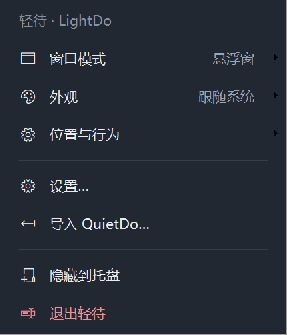
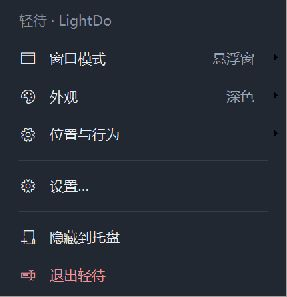
feat: remove QuietDo import from independent LightDo app

diff --git a/src/model.rs b/src/model.rs
@@ -47,7 +47,6 @@ pub struct Settings {
     pub autostart: bool,
     pub introduced: bool,
     pub tray_tip_shown: bool,
-    pub import_decided: bool,
     pub x: i32,
     pub y: i32,
     pub width: i32,
@@ -73,7 +72,6 @@ impl Default for Settings {
             autostart: false,
             introduced: false,
             tray_tip_shown: false,
-            import_decided: false,
             x: 160,
             y: 120,
             width: 400,
@@ -166,18 +164,6 @@ impl Model {
     pub fn delete(&mut self, id: &str) {
         self.todos.retain(|t| t.id != id)
     }
-    pub fn import(&mut self, text: &str) -> Result<usize, String> {
-        let todos: Vec<Todo> = serde_json::from_str(text).map_err(|_| "QuietDo 数据格式无效")?;
-        let mut check = self.clone();
-        check.todos = todos.clone();
-        check.validate()?;
-        let old: HashSet<String> = self.todos.iter().map(|t| t.id.clone()).collect();
-        let added: Vec<_> = todos.into_iter().filter(|t| !old.contains(&t.id)).collect();
-        let count = added.len();
-        self.todos.extend(added);
-        self.settings.import_decided = true;
-        Ok(count)
-    }
 }
 #[cfg(test)]
 mod tests {
@@ -203,13 +189,18 @@ mod tests {
         assert_eq!(m.todos, again.todos);
     }
     #[test]
-    fn import_is_explicit_and_deduplicated() {
-        let mut m = Model::default();
-        let json = r#"[{"id":"quiet-1","text":"原有任务","done":true}]"#;
-        assert_eq!(m.import(json).unwrap(), 1);
-        assert_eq!(m.import(json).unwrap(), 0);
-        assert!(m.import("bad").is_err());
-        assert_eq!(m.todos.len(), 1);
+    fn retired_preference_does_not_break_existing_lightdo_data() {
+        let json = r#"{"version":1,"todos":[{"id":"existing","text":"已有任务","done":true}],"settings":{"import_decided":true}}"#;
+        let m: Model = serde_json::from_str(json).unwrap();
+        assert!(m.validate().is_ok());
+        assert_eq!(m.todos[0].id, "existing");
+        assert_eq!(m.todos[0].text, "已有任务");
+        assert!(m.todos[0].done);
+        assert!(
+            !serde_json::to_string(&m)
+                .unwrap()
+                .contains("import_decided")
+        );
     }
     #[test]
     fn future_or_duplicate_data_rejected() {

diff --git a/src/app.rs b/src/app.rs
@@ -1428,29 +1428,6 @@ impl App {
                     Err(e) => self.error = Some(e),
                 }
             }
-            217 => {
-                let p = std::path::PathBuf::from(std::env::var_os("APPDATA").unwrap_or_default())
-                    .join("com.quietdo.app/todos.json");
-                match std::fs::read_to_string(p) {
-                    Ok(text) => {
-                        if unsafe {
-                            MessageBoxW(
-                                Some(self.hwnd),
-                                w!("复制导入 QuietDo 的任务？原文件保持不变，重复 ID 跳过。"),
-                                w!("本地导入"),
-                                MB_YESNO | MB_ICONQUESTION,
-                            )
-                        } == IDYES
-                        {
-                            match self.model.import(&text) {
-                                Ok(_) => {}
-                                Err(e) => self.error = Some(e),
-                            }
-                        }
-                    }
-                    Err(e) => self.error = Some(format!("无法读取 QuietDo 数据：{e}")),
-                }
-            }
             218 => {
                 if self.editing.is_some() {
                     if COMPOSING.with(Cell::get) {

diff --git a/src/menu_ui.rs b/src/menu_ui.rs
@@ -418,16 +418,6 @@ pub fn show(owner: HWND, cfg: &Settings, visible: bool, scale: f32) -> usize {
         );
         p.separator(root);
         p.item(root, 214, "设置…", "", '\u{e713}', false, true, None);
-        p.item(
-            root,
-            217,
-            "导入 QuietDo…",
-            "",
-            '\u{e8b5}',
-            false,
-            true,
-            None,
-        );
         p.separator(root);
         p.item(
             root,

diff --git a/src/settings_ui.rs b/src/settings_ui.rs
@@ -397,7 +397,6 @@ unsafe extern "system" fn procedure(hwnd: HWND, msg: u32, w: WPARAM, l: LPARAM) 
                             let c = Settings::default();
                             ui.settings = Settings {
                                 introduced: true,
-                                import_decided: ui.settings.import_decided,
                                 ..c
                             };
                             unsafe { populate(ui) }

diff --git a/docs/verification.md b/docs/verification.md
@@ -2,9 +2,9 @@
 
 状态：开发中，尚未达到正式发布门槛。
 
-此前锁屏阻塞已解除：用户回复桌面已解锁，WTS 复核 `lockFlag=1, locked=false`。当前 GetDpiForWindow=144（150%），新版构建已重新启动进行实际交互。用户补交的「可见/可输入/层级正常」对应旧子窗口方案，只记入历史反馈；新版桌面模式仍待重新反馈，不能据此通过。
+此前锁屏阻塞已解除：用户回复桌面已解锁，WTS 复核 `lockFlag=1, locked=false`。当前 GetDpiForWindow=144（150%）。2026-10-26 用户针对 71b5f56 新版桌面模式的 Win+D 往返、添加/编辑与普通应用层级反馈「一切正常！」，该项目记为用户手测 PASS；更早旧子窗口方案的反馈仍仅作历史记录。
 
-本轮菜单/设置归并和实际画面见 [menu-redesign.md](menu-redesign.md)。新增中文与 Emoji 任务、首尾空白清理、输入清空且保留焦点、JSON 保存、浅深色菜单和主题切换、子菜单禁用状态、F10 打开与 Esc 关闭已观察。原生菜单方向键及设置下拉框连续键盘选择受自动化激活主窗影响，待人工验证。
+本轮菜单/设置归并和实际画面见 [menu-redesign.md](menu-redesign.md)。新增中文与 Emoji 任务、首尾空白清理、输入清空且保留焦点、JSON 保存、浅深色菜单和主题切换、子菜单禁用状态、F10 打开与 Esc 关闭已观察。用户手测菜单方向键与设置模式选择反馈「可以实现」，对应项目 PASS。按用户最新要求已完整移除 QuietDo 导入，实际浅深色菜单已检查，原有轻待数据的废弃字段兼容测试通过。
 
 | 项目 | 方法/环境 | 当前结果 |
 |---|---|---|
@@ -13,7 +13,7 @@
 | GitHub 身份 | gh 官方设备授权、api user | Richard-Nido / Yuan Haoran；已获使用空仓库授权 |
 | 原生桌面工具 | computer-use @oai/sky list_apps | PASS；旧 CLI 路径缺失，目录链接指向应用管理的完整 CLI 后恢复 |
 | 玻璃动态背景与折射 | 实际显示 examples/glass_background 动态网格，主面板截图；没有使用内置壁纸 | 已观察悬浮模式实时背景、模糊和边缘位移；无自身反馈。仍需补齐拖动、浅色、桌面视觉验收 |
-| 边缘/悬浮/桌面 | 旧方案单 HWND 菜单切换；后续受控捕获反例 | 旧 SetParent 方案因自身捕获风险否决；已改为明确的桌面 Z 序维护，新版三种模式均待解锁后复测 |
+| 边缘/悬浮/桌面 | 单 HWND 菜单切换；新版桌面由用户 Win+D 手测 | 旧 SetParent 已否决；新版桌面可见/可编辑/普通应用层级 PASS（用户反馈）；边缘和悬浮拖动手势等完整场景仍待补齐 |
 | 中文 IME/候选窗 | 实际按 n、i、Return；行内 n、i、Space、Esc；独立原生编辑控件 | PASS 当前缩放：候选窗出现；组合 Enter 未新增任务，第二次 Enter 才新增；Space 选出“你”；Esc 恢复原文。证据 images/p0-ime-inline.jpg |
 | Unicode 待办新增 | 原生输入“中文待办 · LightDo 🙂”，Enter，读取隔离数据 | PASS；首尾空白去除，顶部新增，输入清空且保留焦点 |
 | 自动化测试 | cargo test --locked --lib | 19 PASS，9 个真实桌面测试/实验明确忽略；新增模式偏好跨模式持久化及鼠标返回反向展开测试，没有把忽略项写成通过 |
@@ -41,7 +41,7 @@
 - 新版浅色、深色、动态背景、圆角折射、拖动/缩放连续刷新、无自身递归与闪烁。
 - 新版中文候选窗、Enter 时序、行内 Enter/失焦/Esc、选区、复制粘贴、长文本与键盘删除。
 - 左右边缘防误触、延迟返回、编辑阻止收回、固定展开、锁定、置顶、全屏避让、快捷键冲突。
-- 新版同一面板三种模式、拖出/重新停靠、Win+D 往返、桌面图标交互、Explorer 重启。
+- 新版同一面板三种模式、拖出/重新停靠、桌面图标交互、Explorer 重启；Win+D 往返已获用户实测通过。
 - 锁屏后解锁、睡眠恢复、100/125/150/200% 实际 DPI、多屏主屏切换和断开后的找回。几何单元测试仅覆盖比例计算，不能冒充这些实测。
 - 设置窗口的滑块、主题、自启、快捷键和恢复默认，异常保存提示。
 - 完整安装、首次启动、升级保留数据、卸载保留/删除数据、自启卸载清理。
@@ -49,4 +49,4 @@
 
 测试硬件：Intel Core i9-13900H、Intel UHD Graphics + RTX 4070 Laptop GPU。最终资源占用尚未测量，不引用上游宣传数字。图片 images/p0-ime-inline.jpg 是早期实际基线运行证据，只能证明当时的 IME 与背景效果，不能作为最新提交的整体验收截图。
 
[2 lines of base64/hex data omitted]

diff --git a/docs/menu-redesign.md b/docs/menu-redesign.md
@@ -4,12 +4,13 @@
 
 | Before | After | Why |
 |---|---|---|
-| 21 项平铺在一个长菜单 | 7 个主入口，模式、外观、位置与行为分组 | 常用操作更容易扫描，菜单不再接近屏幕高度 |
+| 21 项平铺在一个长菜单 | 6 个主入口，模式、外观、位置与行为分组 | 常用操作更容易扫描，菜单不再接近屏幕高度 |
 | 三种模式和左右停靠混排 | 「窗口模式」中统一选择 | 当前模式有勾选，非边缘模式的停靠选项禁用 |
 | 浅色、深色、系统主题分散 | 「外观」中统一选择 | 主菜单直接显示当前主题 |
 | 固定、置顶、锁定、自动隐藏混排 | 「位置与行为」归组 | 明确区分功能，按模式禁用不适用项 |
 | 两条「更透明 / 更浓」及开机启动快捷项 | 设置中的单一连续滑块与启动开关 | 删除重复入口，保留更精确的调节方式 |
 | 所有设置挤在同一页 | 「外观 / 窗口 / 通用」三个页签 | 相关选项集中，不增加待办功能 |
+| 导入 QuietDo | 按用户确认的独立项目定位移除 | 不读取其他应用的数据，不保留导入逻辑 |
 | 无分组边界的默认系统菜单 | 统一线性图标、38 DIP 行高、薄分隔线、圆角悬停色块 | 提升可读性和操作反馈，支持浅深色与系统高对比色 |
 
 菜单由原生 TrackPopupMenu 管理，自绘只负责样式。菜单是清晰的不透明操作表面，没有将它宣传为带真实折射的玻璃块。原生编辑、应用设置和待办数据仍各自保留唯一状态。
@@ -27,6 +28,6 @@
 
 已观察：浅深色菜单、主题切换、子菜单、悬浮模式下选项禁用、外观/窗口页切换、设置入口、F10 打开及 Esc 关闭菜单；中文和 Emoji 新增后清空输入且保留焦点、JSON 保存与首尾空白清理。
 
-原生弹出菜单方向键、设置下拉框的连续键盘选择和新版桌面模式 Win+D 往返仍待人工反馈。自动化工具在每次输入前激活主窗口，不能将焦点被改变后的截图写成操作通过。项目正式发布门槛仍为 pending。
+用户已对 71b5f56 构建手动验证新版桌面 Win+D 往返、添加/编辑与层级，反馈「一切正常！」；菜单 F10、方向键、Esc 和设置模式选择反馈「可以实现」。这些是用户实测反馈，已计入对应项目；没有扩大为睡眠、Explorer 重启和所有 DPI 场景通过。项目正式发布门槛仍为 pending。
 
-补充候选修正：非边缘模式隐藏标题栏的「固定展开」按钮；设置中改变悬浮窗置顶立即应用，不需要切换模式；禁用项保留所属模式的偏好。候选在独立输出目录构建，不中断正在等待人工反馈的 71b5f56 构建。这三项补充尚需后续运行复核。
+补充修正：非边缘模式隐藏标题栏的「固定展开」按钮；设置中改变悬浮窗置顶立即应用，不需要切换模式；禁用项保留所属模式的偏好。当前标准 release 路径已重建并运行移除导入的新版本，浅深色主菜单截图已更新。已实际确认非边缘模式无固定展开按钮、无导入入口，设置置顶仍需专项复核。

diff --git a/docs/next-steps.md b/docs/next-steps.md
@@ -6,9 +6,9 @@
 
 ## 当前接续状态
 
-用户已解锁 Windows，WTS 已复核 lockFlag=1、locked=false。当前构建已重新实际运行。菜单/设置改版已实现并检查画面，见 menu-redesign.md。新版面板刚从菜单切到 Desktop；用户已被异步请求验证新版 Win+D 往返及原生菜单/设置下拉框键盘行为。此前用户的成功反馈属于已废弃的旧方案，不能混用为新版验收。
+用户已解锁 Windows，WTS 已复核 lockFlag=1、locked=false。用户针对新版 71b5f56 桌面 Win+D 往返、添加/编辑、层级反馈「一切正常！」，菜单 F10/方向键/Esc 与设置模式选择反馈「可以实现」，对应项目已通过。更早旧子窗口反馈没有混用。
 
-目前正在运行的标准 release 路径二进制对应 71b5f56。后续菜单行为修正在 target/candidate/x86_64-pc-windows-msvc/release/lightdo.exe 单独构建，未替换当前人工测试实例；用户反馈返回后再正常退出、启动候选并补齐复核。71b5f56 的 CI 40246781194 已成功，包括检查、构建、打包、静默安装测试。
+用户后续明确要求完全移除 QuietDo 导入，见 product-decisions.md，此要求覆盖初始 Prompt 的导入条款。当前标准 release 路径已重建并启动移除导入的新版本，包含 26b770d 的行为修正。测试数据仅将模式设为 Floating 以继续自动测试，其余任务保留；旧导入偏好字段已在正常设置保存时被移除。浅深色主菜单已实际确认无导入、非边缘模式无固定展开按钮。19 项常规测试通过，安装包已重建。
 
 当前生产候选代码使用顶层窗口 + 桌面 Z 序维护，不能恢复被否决的桌面子窗采样方案。子窗排除实验的真实结果是 FAIL，两组采样亮度都约 0.21176487；该实验不是产品验收通过项。
 
@@ -25,7 +25,7 @@
 ## 数据与工具
 
 - 正式数据 `%APPDATA%/LightDo/state.json`；隔离开发数据在 `local-evidence`，被 Git 忽略。
-- 原始 QuietDo 数据不得改写。导入只复制、显式确认和按 ID 去重。
+- 只使用轻待的数据目录，导入功能已按用户要求完全移除；不读取或改写 QuietDo 数据。
 - Rust 1.99.1 MSVC、VS Build Tools 17.14.42、SDK 10.0.26100、NSIS 3.12 已可用。
 - 本地 GitHub CLI 在 `.tools/gh/bin/gh.exe`，账号已官方登录 Richard-Nido；不读取或打印 Token。
 - `--diagnose` 只返回本应用窗口和会话状态，不包含任务正文、用户名或截图。

diff --git a/README.md b/README.md
@@ -20,7 +20,7 @@ cargo test --locked --lib
 cargo run --locked
 ```
 
-右键面板打开模式与外观菜单。`Ctrl+Alt+L` 呼出并输入；双击任务编辑，Enter 提交，Esc 取消。数据位于 `%APPDATA%\LightDo\state.json`；开发验收可用环境变量 `LIGHTDO_DATA_DIR` 指向隔离目录，不会自动读取或修改 QuietDo 数据。
+右键面板打开模式与外观菜单。`Ctrl+Alt+L` 呼出并输入；双击任务编辑，Enter 提交，Esc 取消。数据位于 `%APPDATA%\LightDo\state.json`；开发验收可用环境变量 `LIGHTDO_DATA_DIR` 指向隔离目录。轻待使用独立的数据目录，不提供其他应用的数据导入。
 
 菜单已按「窗口模式 / 外观 / 位置与行为」分组，设置分为「外观 / 窗口 / 通用」三页。实际运行截图和验证范围见 [菜单与设置改版](docs/menu-redesign.md)。
 

diff --git a/docs/architecture.md b/docs/architecture.md
@@ -18,7 +18,7 @@ Glance 的 glass.rs 是系统 HostBackdrop 毛玻璃；skins.rs 的 Glass 才使
 
 ## 数据与发布边界
 
-计划数据路径 `%APPDATA%\LightDo\state.json`；版本化 JSON，串行同步落盘、临时文件 flush 后原子替换。读取失败保持原文件且禁写，不用空数据覆盖。导入 QuietDo 只复制且由用户显式选择。
+数据路径 `%APPDATA%\LightDo\state.json`；版本化 JSON，串行同步落盘、临时文件 flush 后原子替换。读取失败保持原文件且禁写，不用空数据覆盖。按用户后续要求，不提供 QuietDo 或其他应用的数据导入，见 product-decisions.md。
 
 当前最低实际测试系统是本机 Windows 11 26H2 build 26300.9711 x64；注册表 ProductName 仍称 Windows 10，不能据此误判系统版本。其他 Windows 11 构建尚未验证。
 

diff --git a/docs/implementation-checklist.md b/docs/implementation-checklist.md
@@ -10,7 +10,7 @@
 - [ ] P0 原生真实背景模糊与边缘折射：动态背景、自身排除、设备恢复。
 - [ ] P0 单面板窗口模式：非激活展开、激活输入、边缘/悬浮/桌面。
 - [ ] P0 原生文本输入：真实中文 IME 与高 DPI 候选窗。
-- [x] 待办模型、原子存储、损坏保护与导入代码及核心单元测试。
+- [x] 待办模型、原子存储、损坏保护及核心单元测试；按用户要求移除导入功能。
 - [ ] 完整待办界面、设置、托盘、自启、快捷键与状态机。
 - [ ] 单元测试、实际桌面验收与性能采样。
 - [ ] 用户级 EXE 安装、升级、卸载验收。

diff --git a/docs/product-decisions.md b/docs/product-decisions.md
@@ -1,0 +1,7 @@
+# 后续确认的产品要求
+
+用户在 2026-10-26 明确要求：轻待是独立新项目，不需要「导入 QuietDo」。此决定覆盖初始 Prompt 中有关数据导入的条款。
+
+- 删除导入菜单、导入命令、其他应用数据路径和导入模型逻辑，不提供首次启动导入询问。
+- 只维护轻待自己的本地任务和设置；旧开发版轻待数据中的废弃导入偏好可被忽略，不丢失已有任务。
+- 上游来源追踪及许可证继续保留，与产品的数据导入能力无关。

diff --git a/CHANGELOG.md b/CHANGELOG.md
@@ -2,6 +2,8 @@
 
 ## 未发布
 
+- 按独立项目定位，移除 QuietDo 导入入口、数据路径和导入逻辑。
+
 - 将长菜单归为窗口模式、外观、位置与行为；增加浅深色样式及当前状态提示。
 - 设置改为外观、窗口、通用三页，透明度与自启统一在设置中调节。
 - 修复非当前模式的偏好保存、输入焦点恢复与收回动画反向中断。
